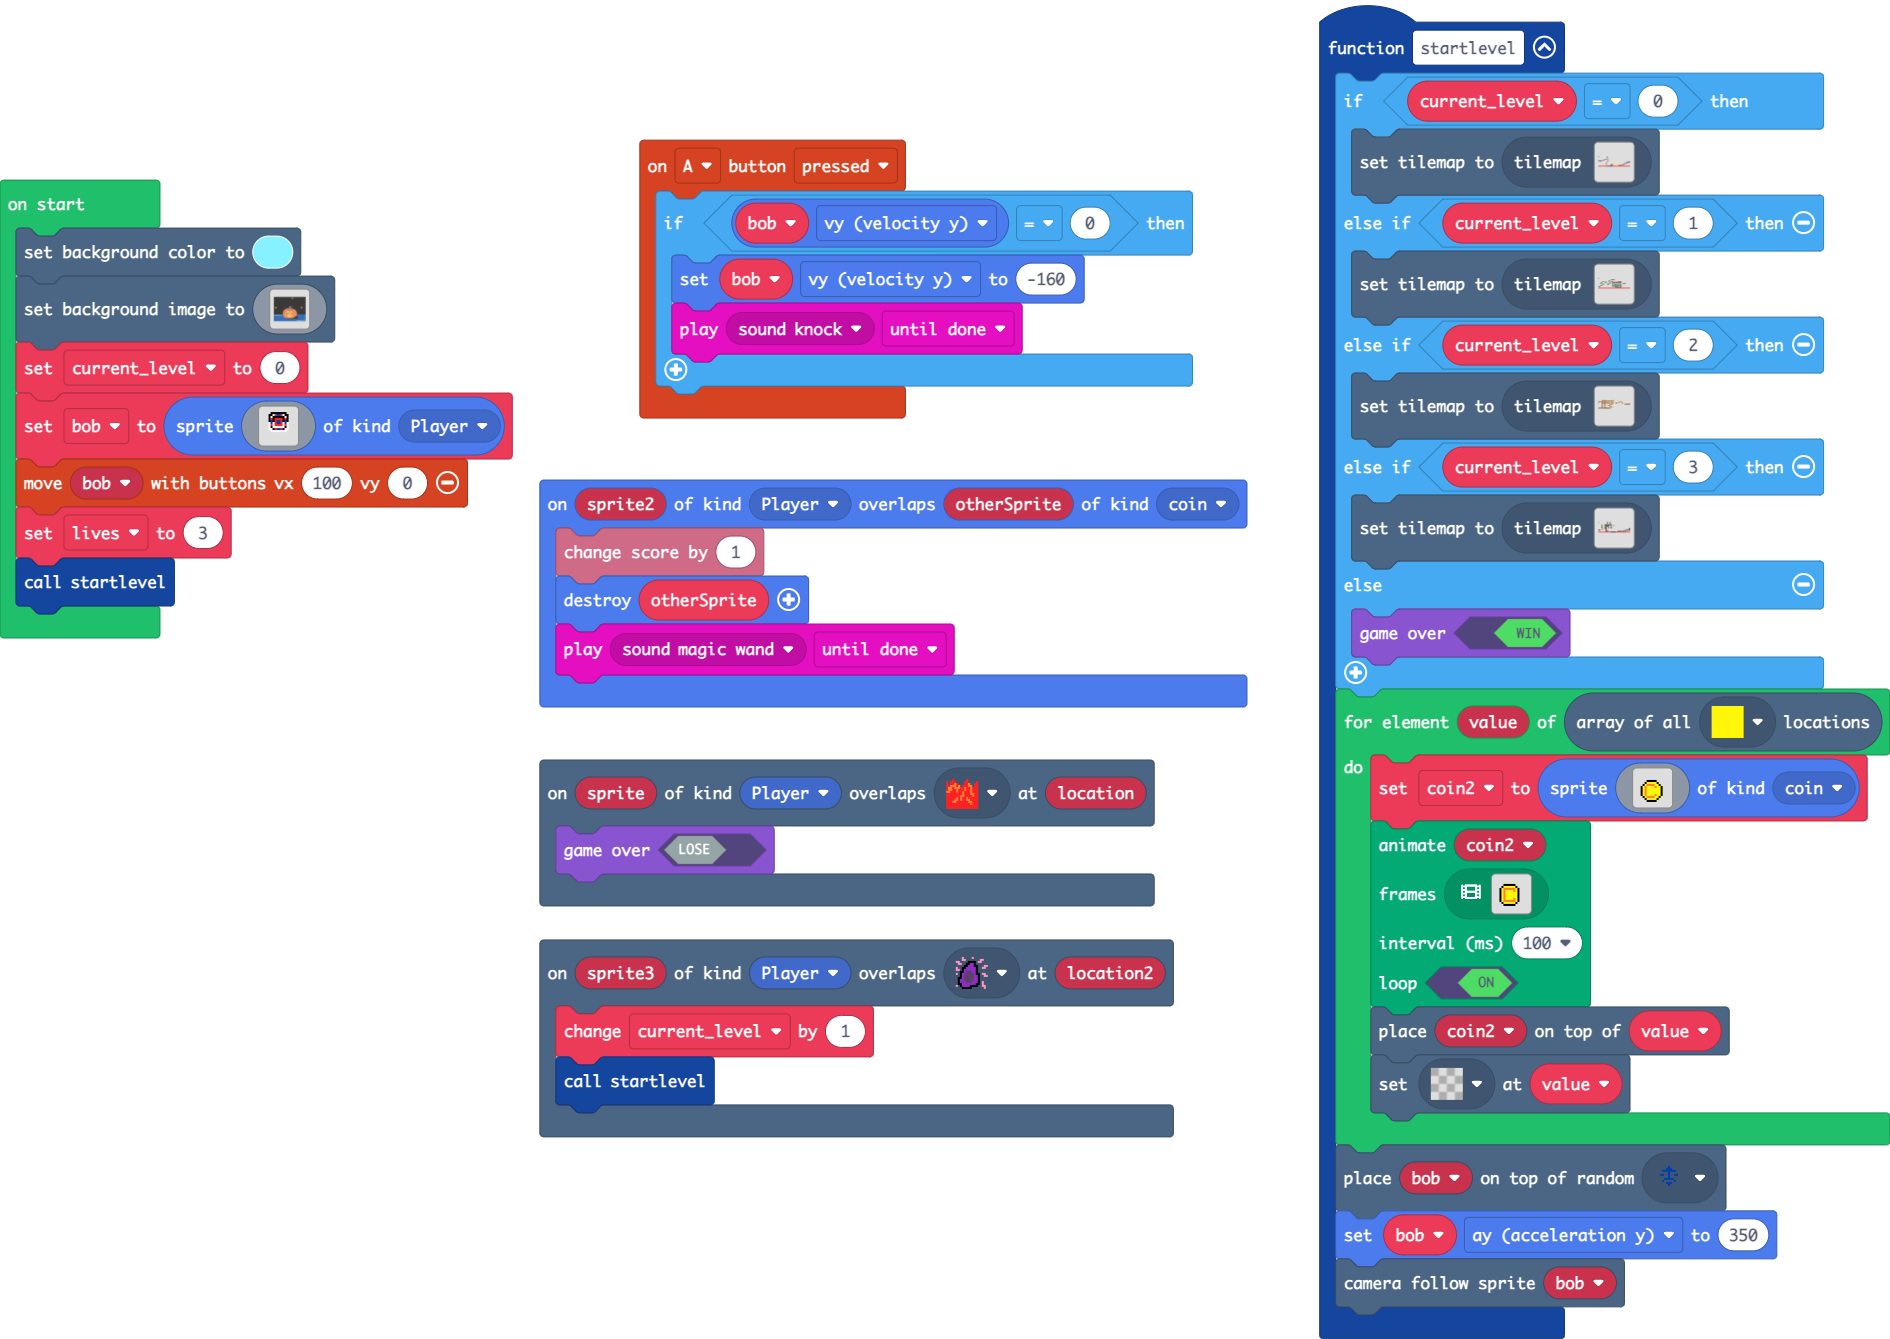
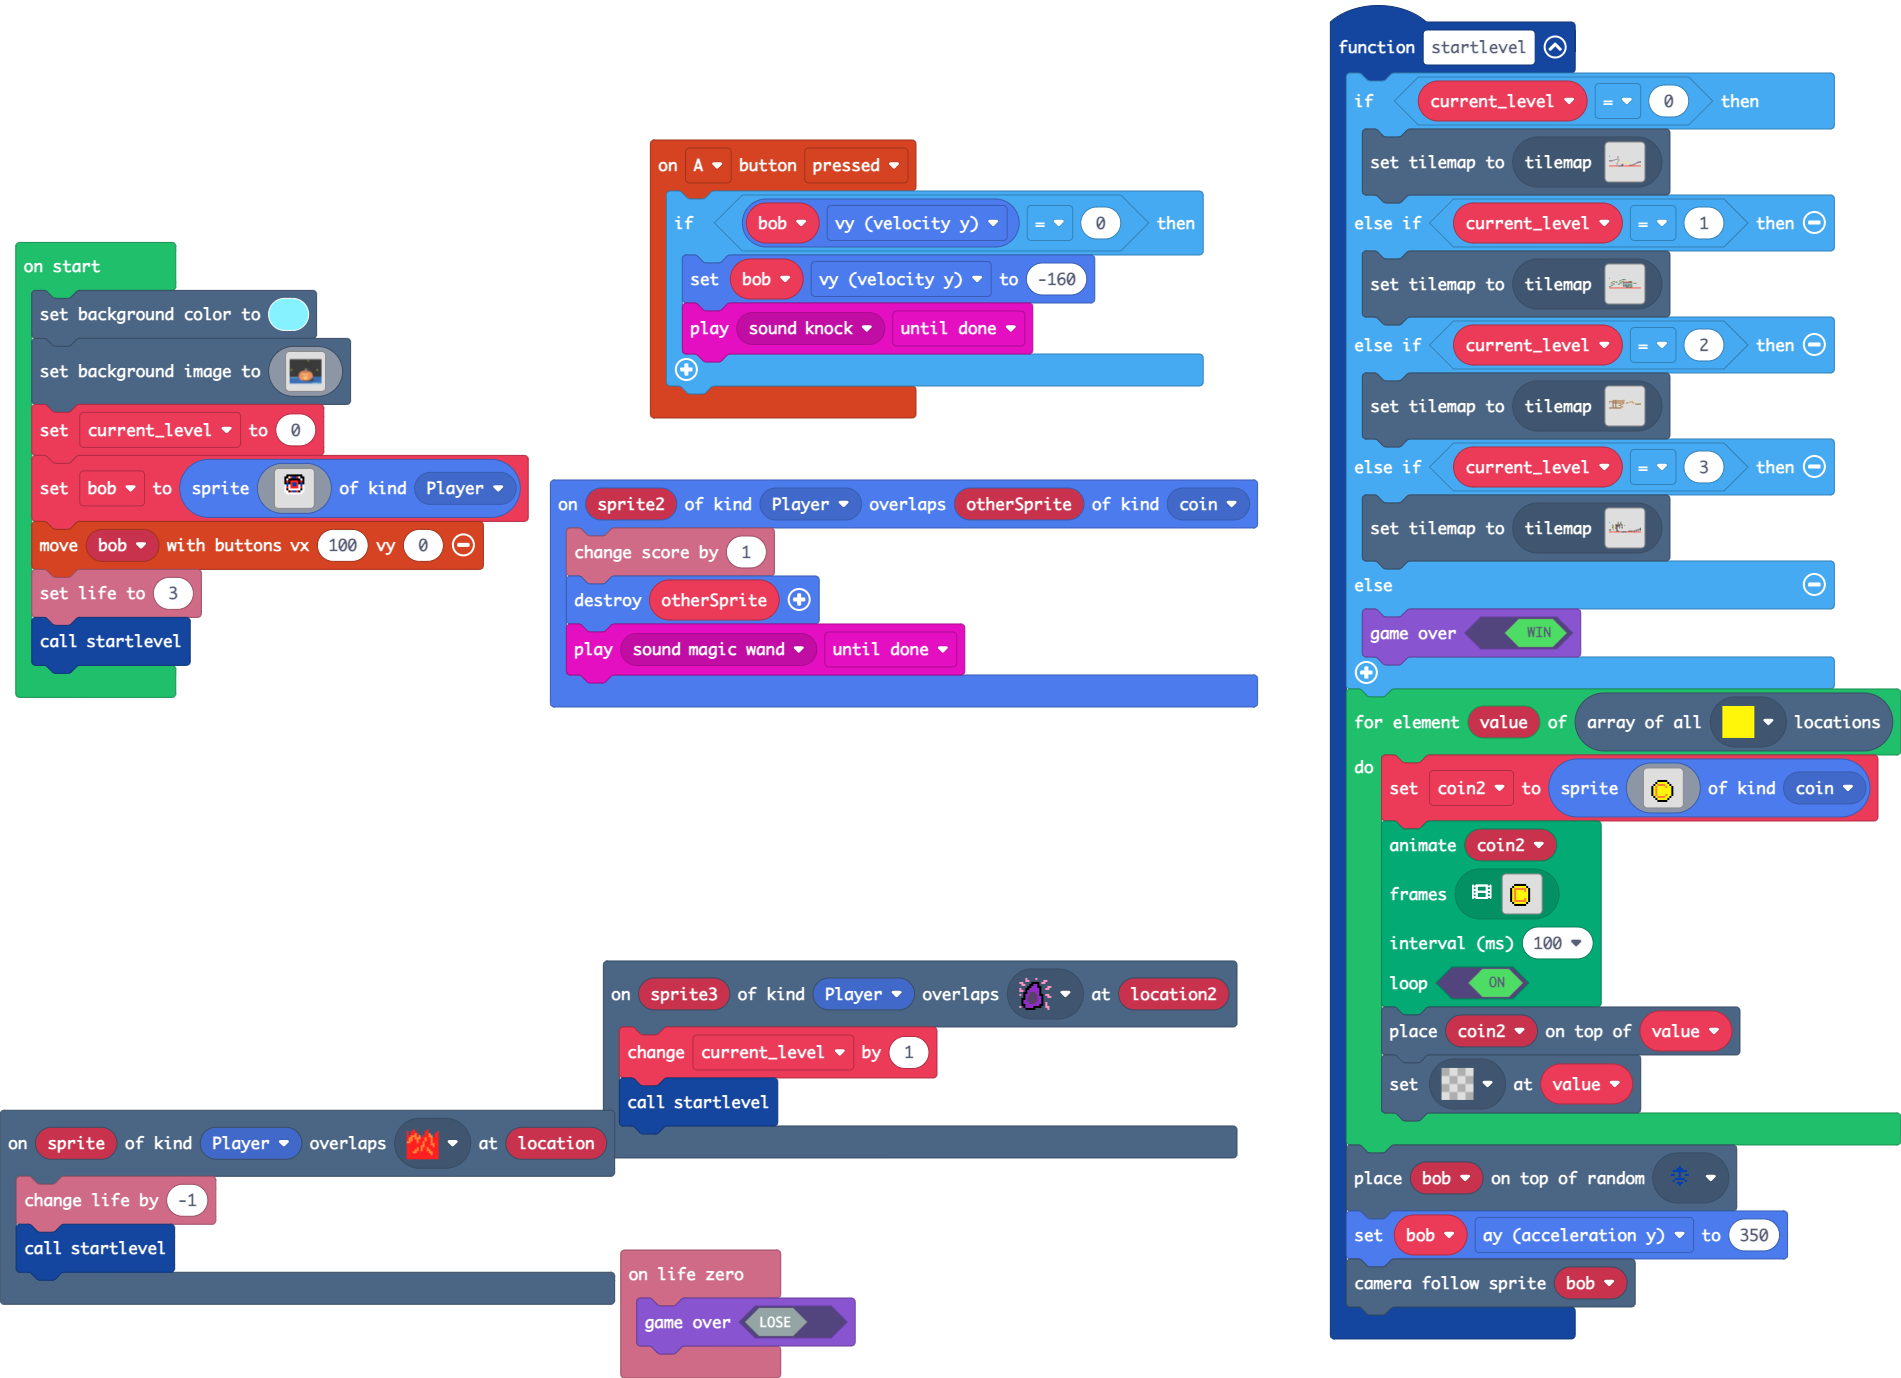
Update main.blocks, main.ts

diff --git a/main.ts b/main.ts
@@ -2,7 +2,8 @@ namespace SpriteKind {
     export const coin = SpriteKind.create()
 }
 scene.onOverlapTile(SpriteKind.Player, assets.tile`myTile1`, function (sprite, location) {
-    game.gameOver(false)
+    info.changeLifeBy(-1)
+    startlevel()
 })
 controller.A.onEvent(ControllerButtonEvent.Pressed, function () {
     if (bob.vy == 0) {
@@ -224,6 +225,9 @@ function startlevel () {
     bob.ay = 350
     scene.cameraFollowSprite(bob)
 }
+info.onLifeZero(function () {
+    game.gameOver(false)
+})
 sprites.onOverlap(SpriteKind.Player, SpriteKind.coin, function (sprite2, otherSprite) {
     info.changeScoreBy(1)
     sprites.destroy(otherSprite)
@@ -362,5 +366,5 @@ scene.setBackgroundImage(img`
 current_level = 0
 bob = sprites.create(assets.image`design1`, SpriteKind.Player)
 controller.moveSprite(bob, 100, 0)
-let lives = 3
+info.setLife(3)
 startlevel()
